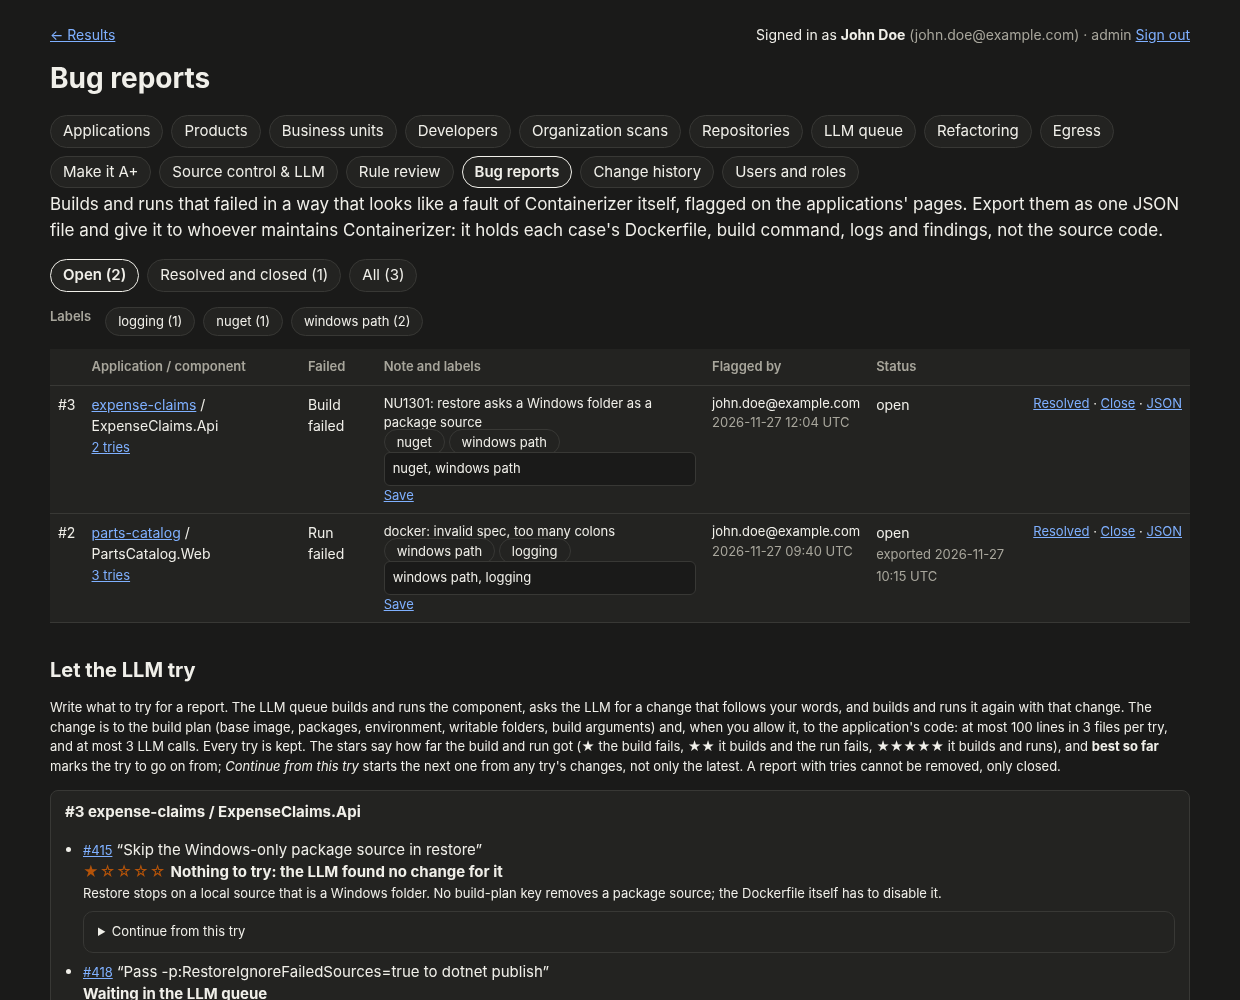
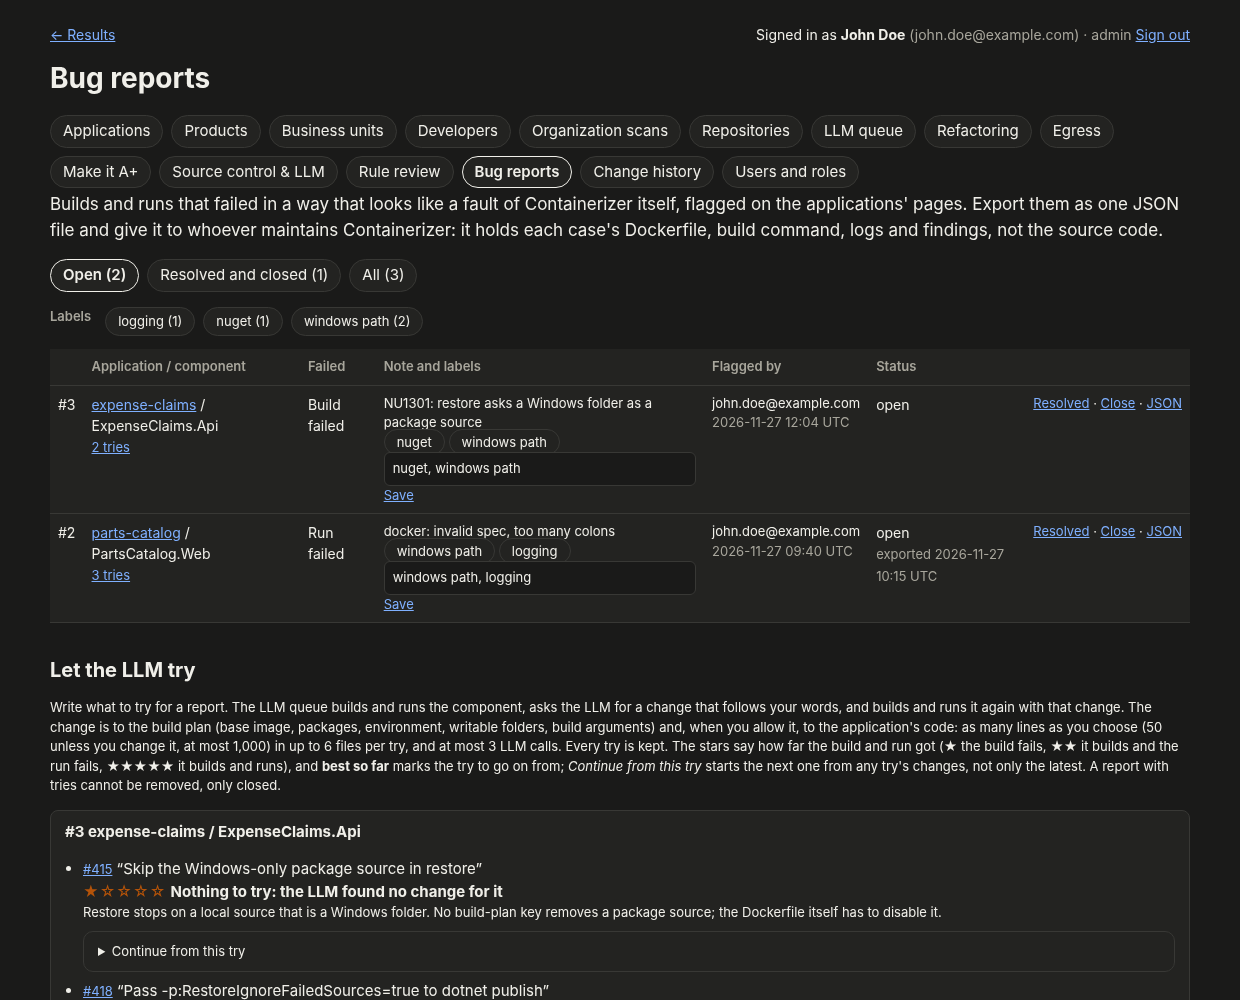
bug report tries: code changes up to 1,000 lines (50 by default); settled reports resolve by themselves

Changed region(s): [[0.0306, 0.713, 0.95, 1.0]]

diff --git a/containerizer/bugreports.py b/containerizer/bugreports.py
@@ -41,8 +41,15 @@ MAX_HINT = 2000
 KIND = "bugtry"
 PRIORITY = 1700                   # a person asked for it: before the automatic reviews
 OK = ("ok", "ok-external")
-MAX_CODE_LINES = 100              # lines of the application's code one try may change, when the administrator allows it
-MAX_CODE_FILES = 3                # files the LLM may read (and so change) in one try
+MAX_CODE_LINES = 1000             # lines of the application's code one try may change, when the administrator allows it
+CODE_LINE_CHOICES = (0, 25, 50, 100, 200, 500, 1000)
+DEFAULT_CODE_LINES = 50
+MAX_CODE_FILES = 6                # files the LLM may read (and so change) in one try that may change over 100 lines
+
+
+def code_files_allowed(code_lines: int) -> int:
+    """How many files the LLM may read (and so change) in a try: three, and six when it may change over 100 lines."""
+    return 3 if code_lines <= 100 else MAX_CODE_FILES
 MAX_FILE_CHARS = 24000            # of a file shown to the LLM
 MAX_LISTED = 300                  # file names offered to the LLM
 MAX_LLM_CALLS = 3                 # per try: the plan, the code change, and one more when its edits were refused
@@ -229,9 +236,32 @@ def retire(conn, component_id: int) -> None:
     keep = tried(conn, ids)
     for i in ids:
         if i in keep:
-            cur.execute("UPDATE cz.BugReport SET Status = N'closed' WHERE BugId = %s", (i,))
+            cur.execute("UPDATE cz.BugReport SET Status = N'closed', StatusNote = N'closed when the component was flagged "
+                        "again or its flag was removed' WHERE BugId = %s", (i,))
         else:
             cur.execute("DELETE FROM cz.BugReport WHERE BugId = %s", (i,))
+
+
+AUTO_NOTE = "automatically: a try got five stars, the application rates A and the component runs healthy in the sandbox"
+
+
+def auto_resolve(conn) -> list[int]:
+    """Mark resolved the open reports that are settled: one of their tries got five stars, the application's latest
+    scan rates it A, and the latest sandbox check found the component deployed and healthy. Only reports nobody
+    set a status on (a reopened one stays open). The ids resolved."""
+    cur = conn.cursor(as_dict=True)
+    cur.execute("SELECT b.BugId FROM cz.BugReport b JOIN cz.vApplicationLatest a ON a.ApplicationId = b.ApplicationId "
+                "JOIN cz.vSandboxLatest s ON s.ApplicationId = b.ApplicationId AND s.ComponentId = b.ComponentId "
+                "WHERE b.Status = N'open' AND b.StatusNote IS NULL AND a.Rating = 'A' AND s.Status = N'healthy'")
+    ids = [int(r["BugId"]) for r in cur.fetchall()]
+    if not ids:
+        return []
+    done = tries(conn, set(ids))
+    ids = [i for i in ids if any(int(t.get("score") or 0) >= 5 for t in done.get(i, []))]
+    for i in ids:
+        cur.execute("UPDATE cz.BugReport SET Status = N'resolved', StatusNote = %s WHERE BugId = %s AND Status = N'open'",
+                    (AUTO_NOTE, i))
+    return ids
 
 
 def flagged(admin, app: dict) -> dict:
@@ -372,7 +402,7 @@ def try_prompt(app: str, component: str, kind: str, plan: dict, stage: str, log_
     if code_lines:
         code = (f"\n\nYou may also change the application's code, at most {code_lines} lines in all, when the build plan "
                 "alone cannot do it. Name in `files` the files you need to read first (at most "
-                f"{MAX_CODE_FILES}, from this list; [] when the plan patch is enough):\n" + "\n".join(files or []))
+                f"{code_files_allowed(code_lines)}, from this list; [] when the plan patch is enough):\n" + "\n".join(files or []))
     return (f"A generated container for {app}/{component} failed at the {stage} stage.\n\nBuild plan:\n"
             f"{json.dumps({k: v for k, v in plan.items() if k not in ('applied', 'reasons')}, indent=1, default=str)[:6000]}\n\n"
             f"{PLAN_HELP.get(kind, PLAN_HELP['dotnet'])}\n{rules}\n\nLog tail:\n{log_tail[-8000:]}\n\n"
@@ -570,7 +600,7 @@ def try_handler(job: dict, ask=None, verify=None) -> dict:
         except Exception:  # noqa: BLE001
             pass
         changed = 0
-        want = [p for p in (answer.get("files") or []) if p in set(listed)][:MAX_CODE_FILES] if code_lines else []
+        want = [p for p in (answer.get("files") or []) if p in set(listed)][:code_files_allowed(code_lines)] if code_lines else []
         if want:
             rf._stop_if_cancelled()
             texts = {}
@@ -663,8 +693,8 @@ def tries(conn, bug_ids=None) -> dict:
 
 
 def _try_form(bug_id: int, csrf: str, parent: int | None = None) -> str:
-    lines = "".join(f"<option value='{n}'>{'No code changes' if not n else f'Code changes: up to {n} lines'}</option>"
-                    for n in (0, 25, 50, MAX_CODE_LINES))
+    lines = "".join(f"<option value='{n}'{' selected' if n == DEFAULT_CODE_LINES else ''}>"
+                    f"{'No code changes' if not n else f'Code changes: up to {n:,} lines'}</option>" for n in CODE_LINE_CHOICES)
     ph = ("What should the LLM try next, on top of this try?" if parent else
           "What should the LLM try? For example: build on the full image and add the package libgdiplus")
     return (f"<form method='post' action='{BASE}/{int(bug_id)}/try' class='formrow'>{csrf}"
@@ -790,8 +820,14 @@ def show(adm, conn, s, a, q: dict | None = None) -> "Response":  # noqa: F821
     label = " ".join(q.get("label", [""])[0].split())[:30]
     cur = conn.cursor(as_dict=True)
     try:
-        cur.execute("SELECT BugId, ApplicationId, ComponentId, App, Component, VerifyStatus, Status, Note, Labels, CreatedBy, "
-                    "CreatedAt, ExportedAt, DATALENGTH(DataGz) AS Bytes FROM cz.BugReport ORDER BY BugId DESC")
+        if auto_resolve(conn):
+            conn.commit()
+    except Exception as ex:  # noqa: BLE001      no sandbox checks or no LLM queue in this database: nothing settles by itself
+        conn.rollback()
+        print(f"bug reports, resolving automatically: {type(ex).__name__}: {ex}", file=sys.stderr)
+    try:
+        cur.execute("SELECT BugId, ApplicationId, ComponentId, App, Component, VerifyStatus, Status, StatusNote, Note, Labels, "
+                    "CreatedBy, CreatedAt, ExportedAt, DATALENGTH(DataGz) AS Bytes FROM cz.BugReport ORDER BY BugId DESC")
         every = cur.fetchall()
         kw = keywords_text(conn)
     except Exception as ex:  # noqa: BLE001      a database from before schema 65
@@ -851,6 +887,7 @@ def show(adm, conn, s, a, q: dict | None = None) -> "Response":  # noqa: F821
                        f"<td class='small'>{e(r.get('Note') or '')}<div>{lab}</div></td>"
                        f"<td class='small'>{e(r.get('CreatedBy') or '')}<br><span class='muted'>{_when(r.get('CreatedAt'))}</span></td>"
                        f"<td>{e(r['Status'])}"
+                       + (f"<br><span class='muted small'>{e(r['StatusNote'])}</span>" if r.get("StatusNote") else "")
                        + (f"<br><span class='muted small'>exported {_when(r['ExportedAt'])}</span>" if r.get("ExportedAt") else "")
                        + f"</td><td class='small nowrap'>{' · '.join(acts)}</td></tr>")
         body.append("<table><thead><tr><th></th><th>Application / component</th><th>Failed</th><th>Note and labels</th>"
@@ -866,8 +903,8 @@ def show(adm, conn, s, a, q: dict | None = None) -> "Response":  # noqa: F821
         body.append("<h2 id='tries'>Let the LLM try</h2><p class='small'>Write what to try for a report. The LLM queue builds "
                     "and runs the component, asks the LLM for a change that follows your words, and builds and runs it again "
                     "with that change. The change is to the build plan (base image, packages, environment, writable "
-                    f"folders, build arguments) and, when you allow it, to the application's code: at most {MAX_CODE_LINES} "
-                    f"lines in {MAX_CODE_FILES} files per try, and at most {MAX_LLM_CALLS} LLM calls. Every try is kept. The "
+                    f"folders, build arguments) and, when you allow it, to the application's code: as many lines as you choose (50 unless "
+                    f"you change it, at most {MAX_CODE_LINES:,}) in up to {MAX_CODE_FILES} files per try, and at most {MAX_LLM_CALLS} LLM calls. Every try is kept. The "
                     "stars say how far the build and run got (★ the build fails, ★★ it builds and the run fails, ★★★★★ it "
                     "builds and runs), and <b>best so far</b> marks the try to go on from; <i>Continue from this try</i> "
                     "starts the next one from any try's changes, not only the latest. A report with tries cannot be "
@@ -997,8 +1034,10 @@ def route(adm, conn, s, a, method: str, parts: list, q: dict, form: dict):
         if parts[2] == "remove":
             cur.execute("DELETE FROM cz.BugReport WHERE BugId = %s", (bid,))
         else:
-            cur.execute("UPDATE cz.BugReport SET Status = %s WHERE BugId = %s",
-                        ({"resolve": "resolved", "close": "closed", "reopen": "open"}[parts[2]], bid))
+            # a status a person set is not changed automatically later (auto_resolve)
+            cur.execute("UPDATE cz.BugReport SET Status = %s, StatusNote = %s WHERE BugId = %s",
+                        ({"resolve": "resolved", "close": "closed", "reopen": "open"}[parts[2]],
+                         f"{'reopened' if parts[2] == 'reopen' else 'set'} by {s.user}"[:300], bid))
         conn.commit()
         return say({"resolve": "Marked resolved.", "close": "Closed.", "reopen": "Reopened.", "remove": "Removed."}[parts[2]])
     return nf

diff --git a/tests/test_bugreports.py b/tests/test_bugreports.py
@@ -86,9 +86,11 @@ def test_the_admin_page_and_roles():
     assert adm.conn.sql(r"UPDATE cz.BugReport SET ExportedAt")
     assert _post(adm, a, "/admin/bugs/keywords", Keywords="b\nContoso\ncontoso").status in (302, 303)
     assert adm.conn.sql(r"BugReportSettings")[-1][1] == ("Contoso",)
-    assert _post(adm, a, "/admin/bugs/3/close").status in (302, 303) and adm.conn.sql(r"SET Status = %s")[-1][1] == ("closed", 3)
+    assert _post(adm, a, "/admin/bugs/3/close").status in (302, 303) and adm.conn.sql(r"SET Status = %s")[-1][1] == ("closed", "set by a@example.com", 3)
     assert "resolved" in dict(_post(adm, a, "/admin/bugs/3/resolve").headers)["Location"]
-    assert adm.conn.sql(r"SET Status = %s")[-1][1] == ("resolved", 3)
+    assert adm.conn.sql(r"SET Status = %s")[-1][1] == ("resolved", "set by a@example.com", 3)
+    _post(adm, a, "/admin/bugs/3/reopen")
+    assert adm.conn.sql(r"SET Status = %s")[-1][1] == ("open", "reopened by a@example.com", 3)
     assert _post(adm, a, "/admin/bugs/3/remove").status in (302, 303) and adm.conn.sql(r"DELETE FROM cz.BugReport WHERE BugId")
     op = adm.sessions.create("o@example.com", "O", False, True, True, [])
     assert _get(adm, op, "/admin/bugs").status == 403 and _post(adm, op, "/admin/bugs/flag/5").status == 403
@@ -186,6 +188,25 @@ def test_flagging_and_exporting_in_sql_server():
     with pytest.raises(Exception):
         c.execute("UPDATE cz.BugReport SET Status = N'gone' WHERE BugId = %s", (bug,))
     adm.rollback()
+    # settled by itself: a five-star try, the application rated A, the component healthy in the sandbox
+    conn.cursor().execute("UPDATE cz.LlmJob SET Payload = %s, Result = %s WHERE JobId = %s",
+                          (json.dumps({"bug_id": newer, "hint": "x"}), json.dumps({"outcome": "helped", "score": 5}), jid))
+    conn.commit()
+    assert br.auto_resolve(adm) == []                                            # rated B, nothing in the sandbox
+    conn.cursor().execute("INSERT cz.ApplicationAssessment (ApplicationId, Rating, Score, Confidence, Summary) "
+                          "SELECT ApplicationId, 'A', 95, 0.9, N'x' FROM cz.Application")
+    conn.commit()
+    assert br.auto_resolve(adm) == []                                            # not in the sandbox
+    conn.cursor().execute("INSERT cz.SandboxCheck (ApplicationId, ComponentId, Status, Namespace) SELECT ApplicationId, %s, N'healthy', N'shop' "
+                          "FROM cz.Application", (api,))
+    conn.commit()
+    assert br.auto_resolve(adm) == [newer]
+    adm.commit()
+    c.execute("SELECT Status, StatusNote FROM cz.BugReport WHERE BugId = %s", (newer,))
+    assert tuple(c.fetchone()) == ("resolved", br.AUTO_NOTE)
+    c.execute("UPDATE cz.BugReport SET Status = N'open', StatusNote = N'reopened by john.doe@example.com' WHERE BugId = %s", (newer,))
+    adm.commit()
+    assert br.auto_resolve(adm) == []                                            # a person reopened it: it stays open
     # a replaced system prompt: the administrator writes it, the writer (worker, queue runner) reads it
     assert llmprompts.save(adm, "refactor", "Keep every appender.", "john.doe@example.com") == "saved"
     adm.commit()
@@ -430,10 +451,15 @@ def test_tries_on_the_page_and_in_the_export():
     assert payload["hint"] == "use the full image" and payload["bug_id"] == 3 and payload["project"] == "src/Api/Api.csproj"
     assert payload["source"]["type"] == "org-clone" and payload["commit"] == "a" * 40 and "bugtry" in params
     assert payload["parent"] is None and payload["base"] is None and payload["code_lines"] == 0
-    # continue from try 21, with code changes (never more than 100 lines)
+    # continue from try 21, with code changes (never more than 1,000 lines)
+    assert "<option value='50' selected>Code changes: up to 50 lines</option>" in page
+    assert "<option value='1000'>Code changes: up to 1,000 lines</option>" in page and "<option value='0'>No code changes" in page
+    assert [br.code_files_allowed(n) for n in (25, 100, 200, 1000)] == [3, 3, 6, 6]
     _post(adm, a, "/admin/bugs/3/try", Hint="go on", Parent="21", CodeLines="500")
+    assert json.loads([p for p in adm.conn.sql(r"EXEC cz.QueueLlmJob")[-1][1] if isinstance(p, str) and p.startswith("{")][-1])["code_lines"] == 500
+    _post(adm, a, "/admin/bugs/3/try", Hint="go on", Parent="21", CodeLines="999")
     payload = json.loads([p for p in adm.conn.sql(r"EXEC cz.QueueLlmJob")[-1][1] if isinstance(p, str) and p.startswith("{")][-1])
-    assert payload["parent"] == 21 and payload["code_lines"] == 100 and payload["base"]["status"] == "run-failed"
+    assert payload["parent"] == 21 and payload["code_lines"] == 999 and payload["base"]["status"] == "run-failed"
     assert payload["base"]["plan_patch"] == {"add_packages": ["libgdiplus"]} and "+new Contoso" in payload["base"]["code_patch"]
     assert payload["base"]["log_tail"] == "boom"
     loc = dict(_post(adm, a, "/admin/bugs/3/try", Hint="x", Parent="23").headers)["Location"]
@@ -559,3 +585,20 @@ def test_open_and_closed_views_and_labels_on_the_page():
     n = len(adm.conn.sql(r"SET Labels"))
     r = _post(adm, a, "/admin/bugs/4/labels", Labels="<x>", Back="https://evil.example/")
     assert dict(r.headers)["Location"].startswith("/admin/bugs?msg=") and len(adm.conn.sql(r"SET Labels")) == n
+
+
+def test_settled_reports_are_resolved_when_the_page_opens():
+    pytest.importorskip("jwt")
+    from test_refactor import _get
+    from test_refactor import adm as adm_fixture
+    adm = adm_fixture.__wrapped__()
+    job = lambda i, bug, score: {"JobId": i, "Status": "answered", "Error": None, "Note": None, "QueuedAt": None,  # noqa: E731
+                                 "FinishedAt": None, "RequestedBy": None, "Payload": json.dumps({"bug_id": bug, "hint": "h"}),
+                                 "Result": json.dumps({"outcome": "helped", "score": score})}
+    adm.conn.answers = {r"JOIN cz.vSandboxLatest": [{"BugId": 5}, {"BugId": 6}],        # rated A and healthy, both
+                        r"WHERE Kind = N'bugtry'": [job(1, 5, 5), job(2, 6, 4)]}
+    a = adm.sessions.create("a@example.com", "A", True)
+    assert _get(adm, a, "/admin/bugs").status == 200
+    ups = adm.conn.sql(r"SET Status = N'resolved', StatusNote = %s")
+    assert [p for _, p in ups] == [(br.AUTO_NOTE, 5)]                            # only the one with a five-star try
+    assert "StatusNote IS NULL" in adm.conn.sql(r"JOIN cz.vSandboxLatest")[0][0] and "a.Rating = 'A'" in adm.conn.sql(r"JOIN cz.vSandboxLatest")[0][0]

diff --git a/docs/bug-reports.md b/docs/bug-reports.md
@@ -36,6 +36,10 @@ tries is closed and kept instead, see below).
 - **Resolved** marks a report as fixed, **Close** puts one aside that will not be fixed or was not a bug after
   all, and **Reopen** brings either back. Both leave the Open view, and neither removes anything: a resolved or
   closed report keeps its case and its tries.
+- **Resolved automatically.** An open report is marked resolved by itself, the next time this page is opened, when
+  all three hold: one of its tries got five stars, the application's latest scan rates it **A**, and the latest
+  sandbox check found the component deployed and healthy. The status then says *automatically: ...*. A report a
+  person has set a status on, a reopened one included, is left alone.
 - **Labels.** Give a report labels (comma-separated, such as `nuget, windows path`) to keep similar cases
   together. The labels of the view are listed above the table with their counts; click one to see only its
   reports, in any view. Labels are free text, up to eight a report.
@@ -65,9 +69,11 @@ tests the idea for you:
 
 - **The build plan**, always: the base image, OS packages, environment variables, writable folders, build
   arguments, files removed in the build, the runtime line.
-- **The application's code**, when you choose *Code changes: up to 25, 50 or 100 lines*. The LLM first names up to
-  three files it needs to read (from the application's file list), then gives edits of those files; together they
-  may change at most the lines you allowed. Edits that change more, that do not match the file, or that remove
+- **The application's code**, up to the number of lines you choose: 25, **50 (the default)**, 100, 200, 500 or
+  1,000, or *No code changes*. The LLM first names the files it needs to read (from the application's file list:
+  up to three, or six when it may change more than 100 lines), then gives edits of those files; together they may
+  change at most the lines you allowed. A larger allowance means a longer answer from the LLM, and with a slow
+  self-hosted LLM a longer wait. Edits that change more, that do not match the file, or that remove
   what the application does are refused; the LLM gets one more chance, then the try goes on without a code change.
 
 A try makes at most three LLM calls and two builds, so it cannot run for long. The scan's own Dockerfile text is

diff --git a/CHANGELOG.md b/CHANGELOG.md
@@ -20,11 +20,13 @@ it as an app update, without an OS upgrade. OS changes go into a minor or major 
   per line) are replaced everywhere in the export by random words, the same word for the same keyword within a
   file. **Let the LLM try** takes your words on what to try for a report: the LLM queue (kind `bugtry`) builds
   and runs the component as it is, asks the LLM for a change that follows them (the build plan, and when you allow
-  it the application's code, up to 100 lines in three files; at most three LLM calls a try), builds and runs again
+  it the application's code, up to 50 lines unless you choose another limit from 25 to 1,000; at most three LLM
+  calls a try), builds and runs again
   with it and records the result (*Helped*, *Got further*, *Did not help*, *Worse*, *Already fixed*, *Nothing to
   try*) with a rating of one to five stars for how far the build and run got. Every try is kept with its diagnosis,
   plan change and code diff; **Continue from this try** starts the next one from any try's changes, *best so far*
-  marks where to go on, and a report with tries is closed, never removed. The tries are in the export. **System prompts** on the same page shows what Containerizer tells the LLM
+  marks where to go on, and a report with tries is closed, never removed. A report with a five-star try is
+  marked resolved by itself once the application rates A and the component runs healthy in the sandbox. The tries are in the export. **System prompts** on the same page shows what Containerizer tells the LLM
   about its role for each kind of question (assessment and build diagnosis, refactoring, egress reviews, link
   reviews, platform migrations) and lets an administrator replace the text (`cz.LlmPrompt`); the scan worker and
   the queue runner use it from their next scan or job, and replaced prompts are in the export
